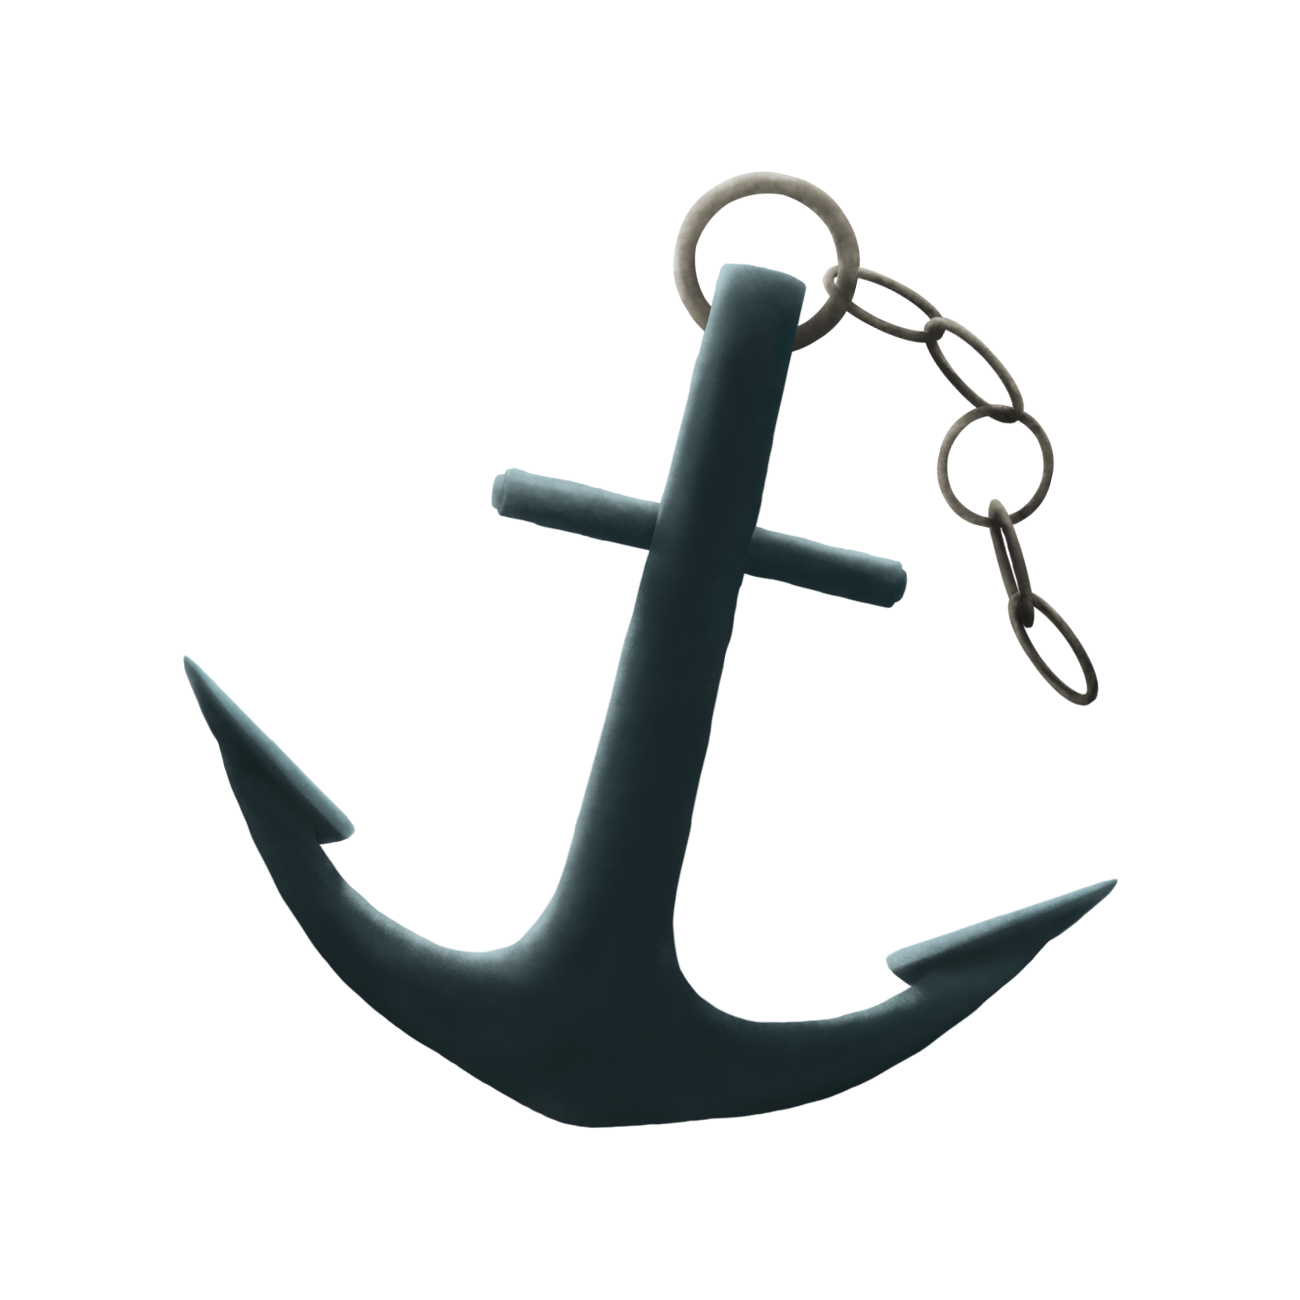
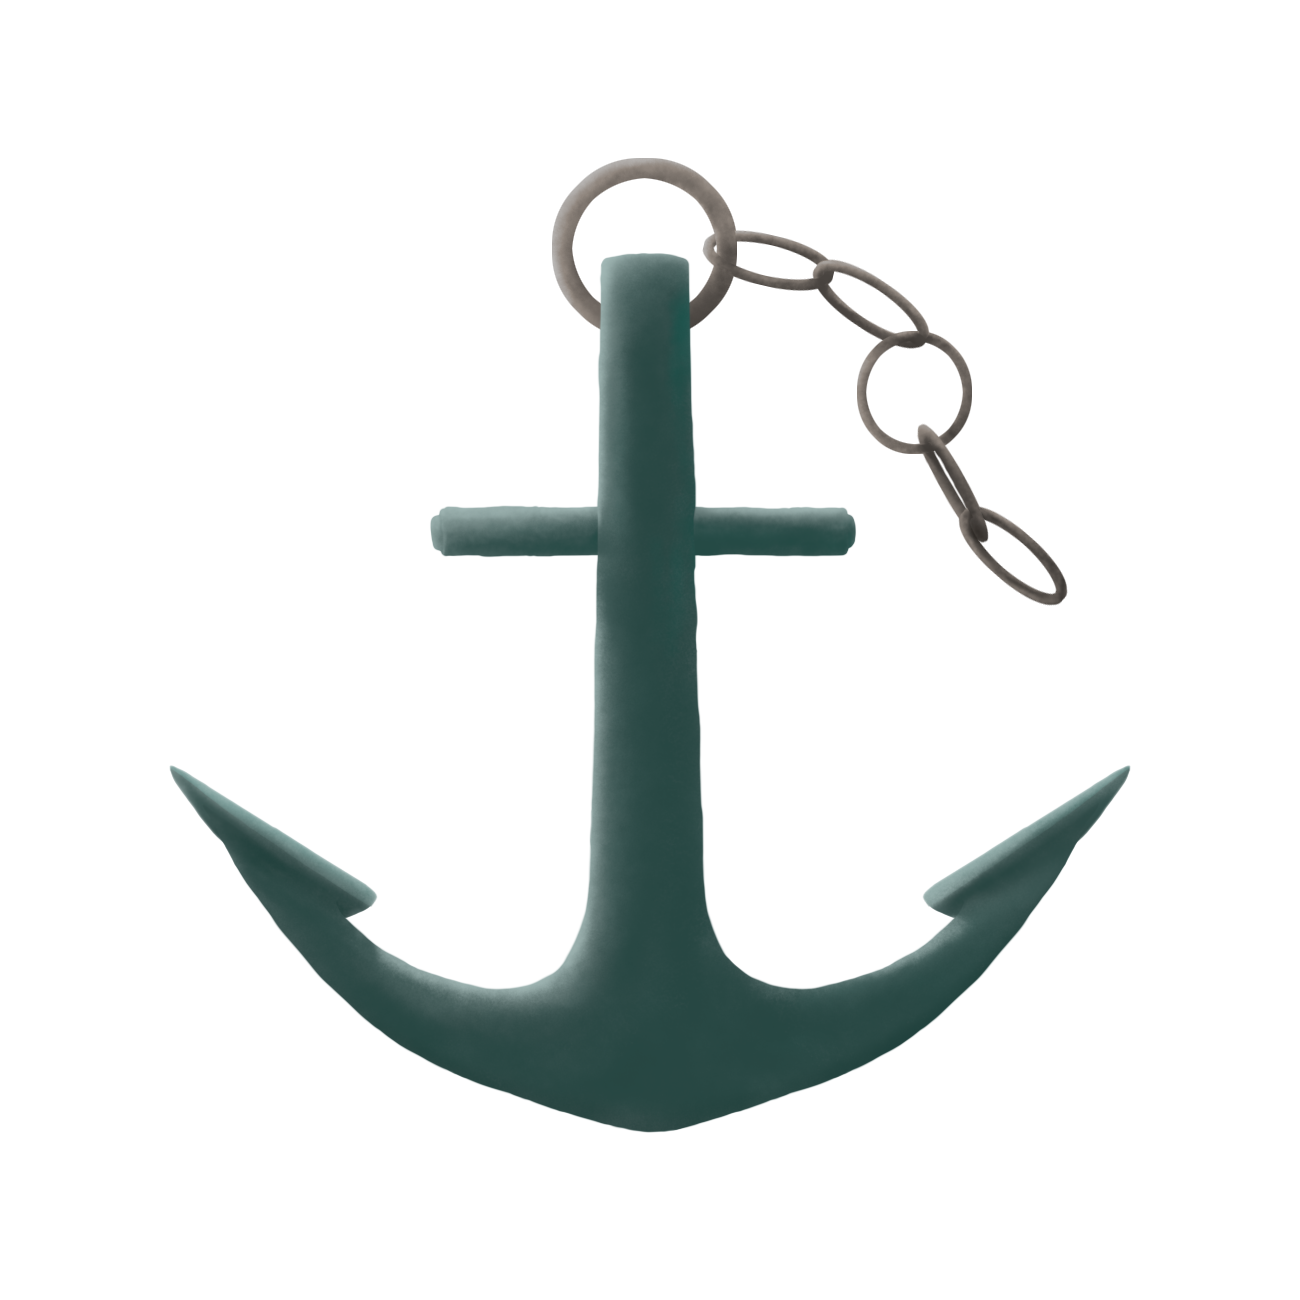
Added Scroll Next Jquery

Changed region(s): [[0.1231, 0.1231, 0.8615, 0.8923]]

diff --git a/script.js b/script.js
@@ -280,3 +280,51 @@ window.onload = function () {
     });
     return;
 };
+
+
+// Scroll to next section on click 'anchor.png'
+// This uses jquery :(
+$(function(){
+    
+    var pagePositon = 0,
+        sectionsSeclector = 'section',
+        $scrollItems = $(sectionsSeclector),
+        offsetTolorence = 30,
+        pageMaxPosition = $scrollItems.length - 1;
+    
+    //Map the sections:
+    $scrollItems.each(function(index,ele) { $(ele).attr("debog",index).data("pos",index); });
+
+    // Bind to scroll
+    $(window).bind('scroll',upPos);
+    
+    //Move on click:
+    $('#anchor a').click(function(e){
+        if ($(this).hasClass('next') && pagePositon+1 <= pageMaxPosition) {
+            pagePositon++;
+            $('html, body').stop().animate({ 
+                  scrollTop: $scrollItems.eq(pagePositon).offset().top
+            }, 300);
+        }
+        if ($(this).hasClass('previous') && pagePositon-1 >= 0) {
+            pagePositon--;
+            $('html, body').stop().animate({ 
+                  scrollTop: $scrollItems.eq(pagePositon).offset().top
+              }, 300);
+            return false;
+        }
+    });
+    
+    //Update position func:
+    function upPos(){
+       var fromTop = $(this).scrollTop();
+       var $cur = null;
+        $scrollItems.each(function(index,ele){
+            if ($(ele).offset().top < fromTop + offsetTolorence) $cur = $(ele);
+        });
+       if ($cur != null && pagePositon != $cur.data('pos')) {
+           pagePositon = $cur.data('pos');
+       }                   
+    }
+    
+});

diff --git a/index.html b/index.html
@@ -10,6 +10,7 @@
         <!-- <link rel="stylesheet" href="style.css"> -->
         <link rel="stylesheet" href="css/main.css">
         <link href="https://cdnjs.cloudflare.com/ajax/libs/font-awesome/6.0.0-beta2/css/all.min.css" rel="stylesheet">
+        <script src="https://ajax.googleapis.com/ajax/libs/jquery/3.6.0/jquery.min.js"></script>
         <script src="https://cdnjs.cloudflare.com/ajax/libs/gsap/3.9.1/gsap.min.js" defer></script>    
         <script src="https://cdnjs.cloudflare.com/ajax/libs/gsap/3.3.1/MotionPathPlugin.js" defer></script>
         <script src="https://cdnjs.cloudflare.com/ajax/libs/gsap/1.19.0/TweenMax.min.js" defer></script>
@@ -259,7 +260,9 @@
                 </div> 
             </section>
             <div id="anchor">
-                <img src="/assets/anchor.png" alt="">
+                <a class="next">
+                    <img src="/assets/anchor.png" alt="">
+                </a>
             </div>
         </main>
         <footer id="footer">     

diff --git a/css/main.css b/css/main.css
@@ -96,8 +96,27 @@ p {
   bottom: 3vw;
   width: 20vw;
   z-index: 3;
+  -webkit-animation: wiggle 3s infinite alternate;
+          animation: wiggle 3s infinite alternate;
 }
 
+@-webkit-keyframes wiggle {
+  from {
+    transform: rotate(-35deg);
+  }
+  to {
+    transform: rotate(35deg);
+  }
+}
+
+@keyframes wiggle {
+  from {
+    transform: rotate(-35deg);
+  }
+  to {
+    transform: rotate(35deg);
+  }
+}
 /* Hamburger */
 .hamburger {
   padding: 15px;

diff --git a/scss/abstracts/_variables.scss b/scss/abstracts/_variables.scss
@@ -1,8 +1,10 @@
 $primary-color: rgb(51, 94, 234); //#335eea;
 $secondary-color: rgb(84, 127, 200); //#547fc8;
-$fixed-header-height: 4.5rem;
 $pink-color: rgb(255, 31, 135); //#ff1f87;
 $light-green-color: rgb(93, 255, 99); //#5dff63
+
+$fixed-header-height: 4.5rem;
+
 $gradient-color: linear-gradient(45deg, $primary-color, $light-green-color);
 
 

diff --git a/scss/components/_anchor.scss b/scss/components/_anchor.scss
@@ -4,4 +4,15 @@
     bottom: 3vw;
     width: 20vw;
     z-index: 3;
+    // transform: rotate(-35deg);
+    animation: wiggle 3s infinite alternate;
+}
+
+@keyframes wiggle {
+    from {
+        transform: rotate(-35deg);
+    }
+    to {
+        transform: rotate(35deg);
+    }
 }
